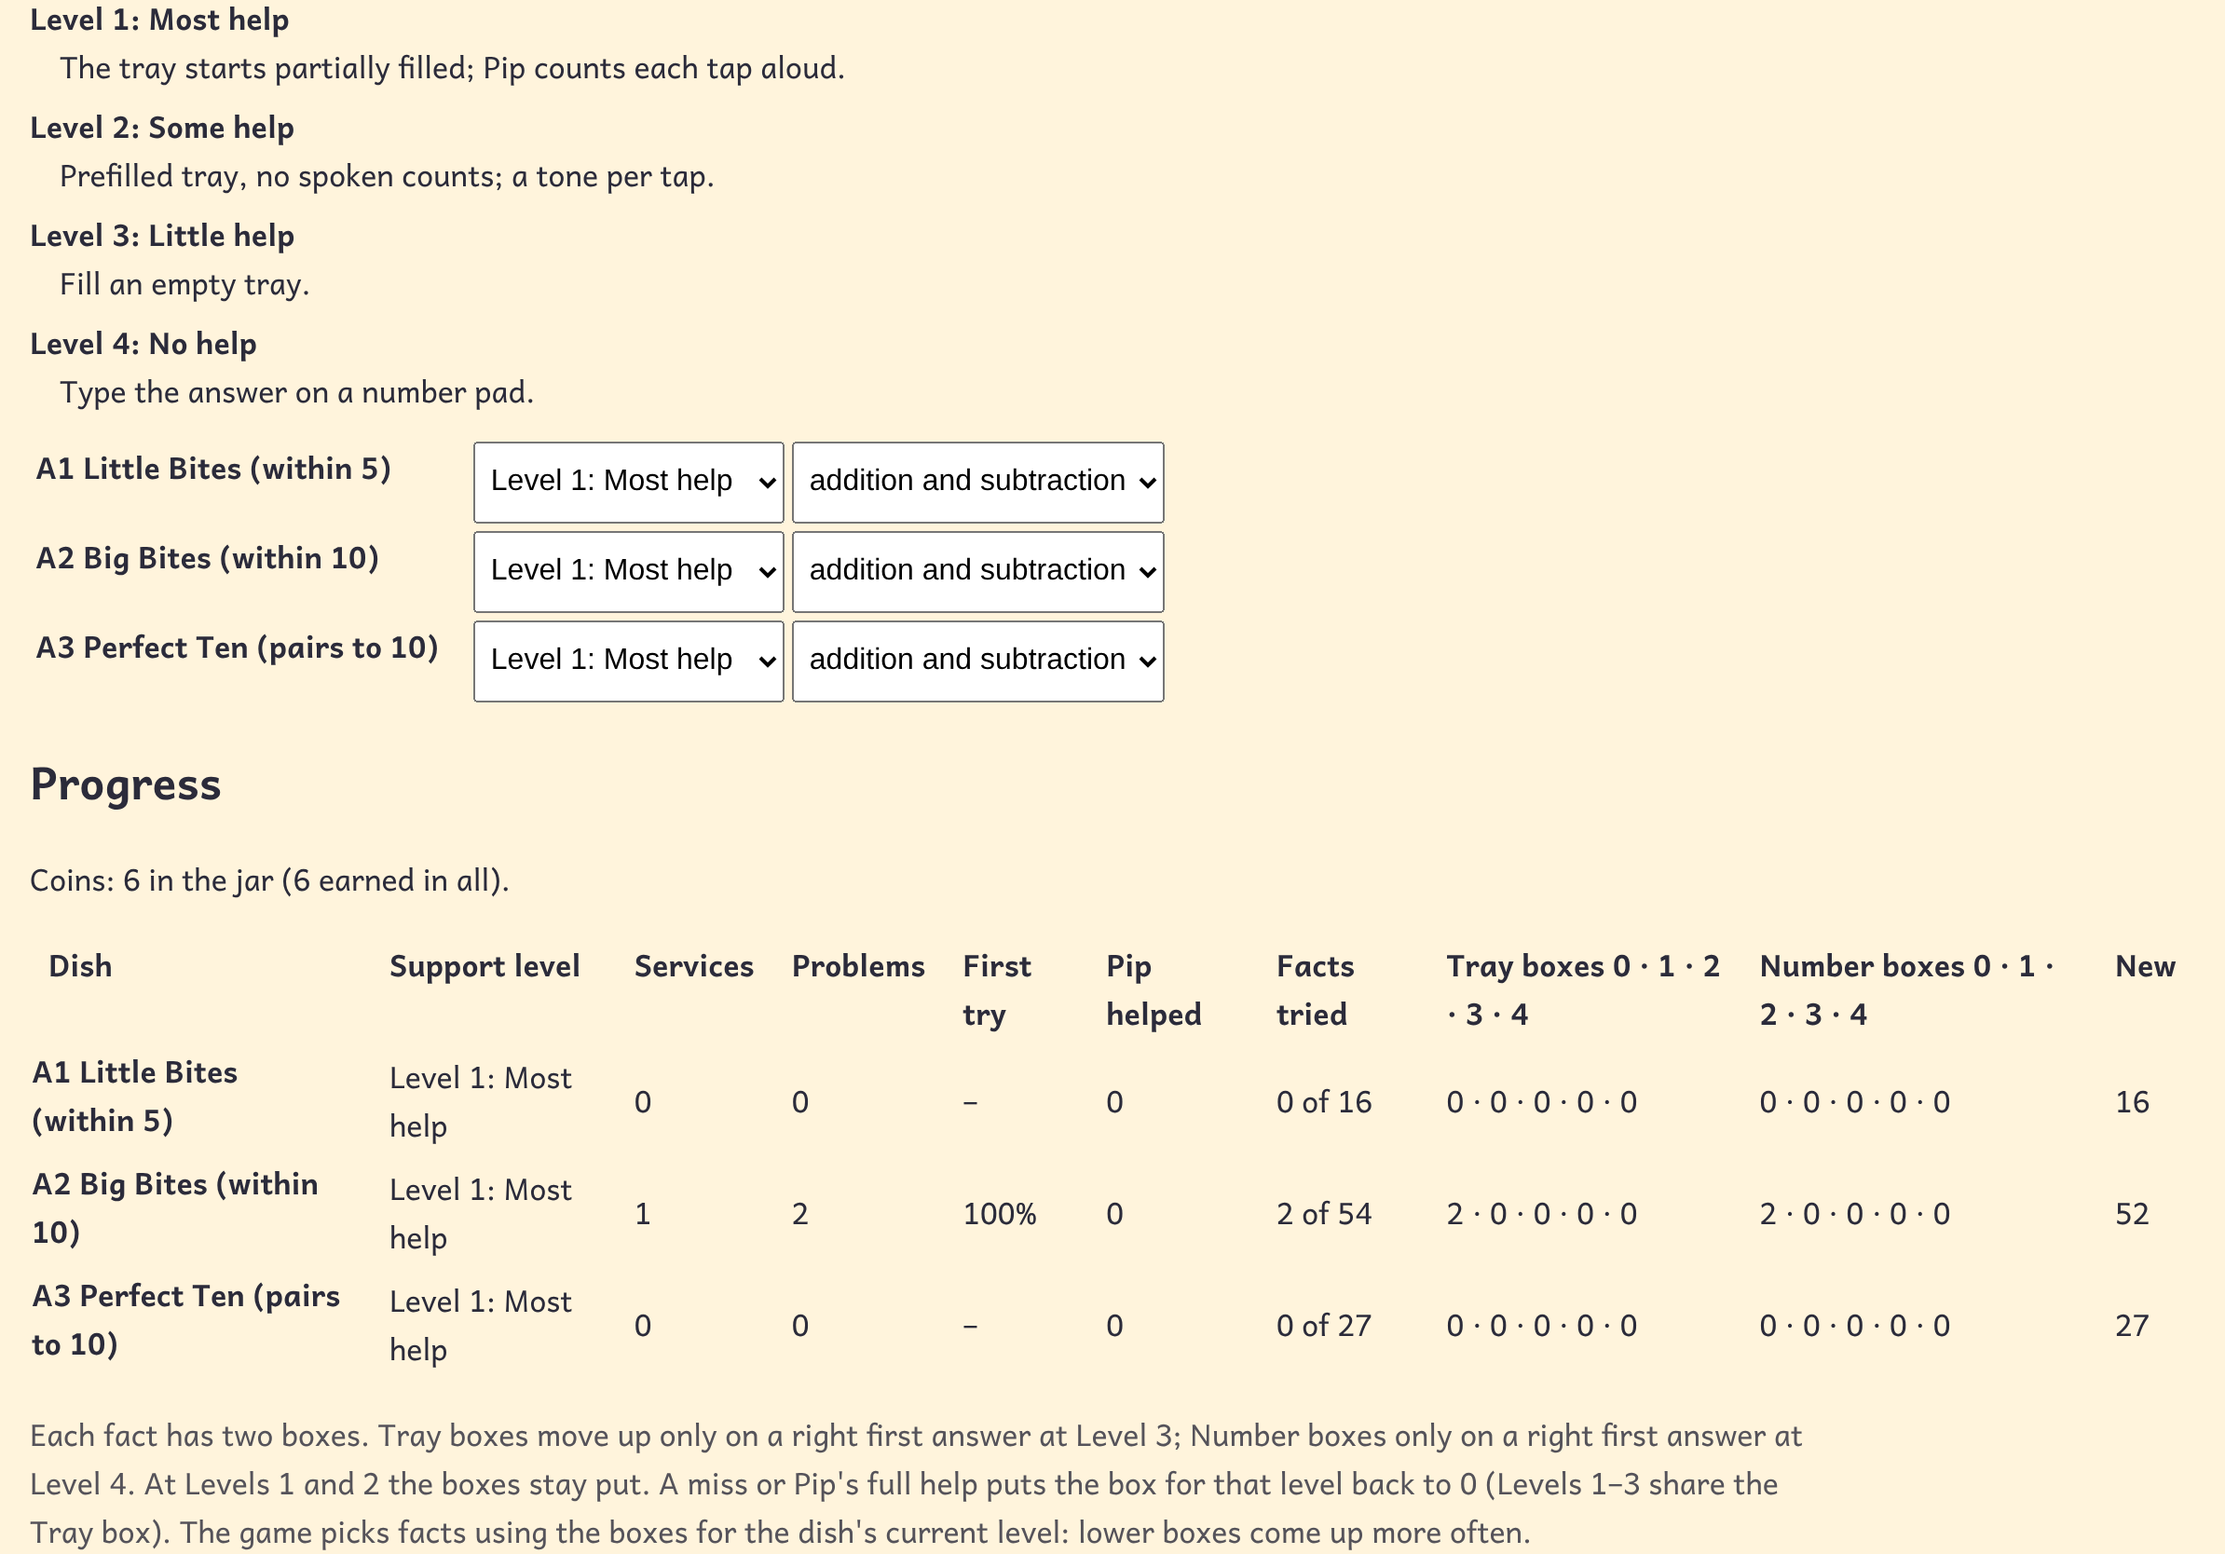
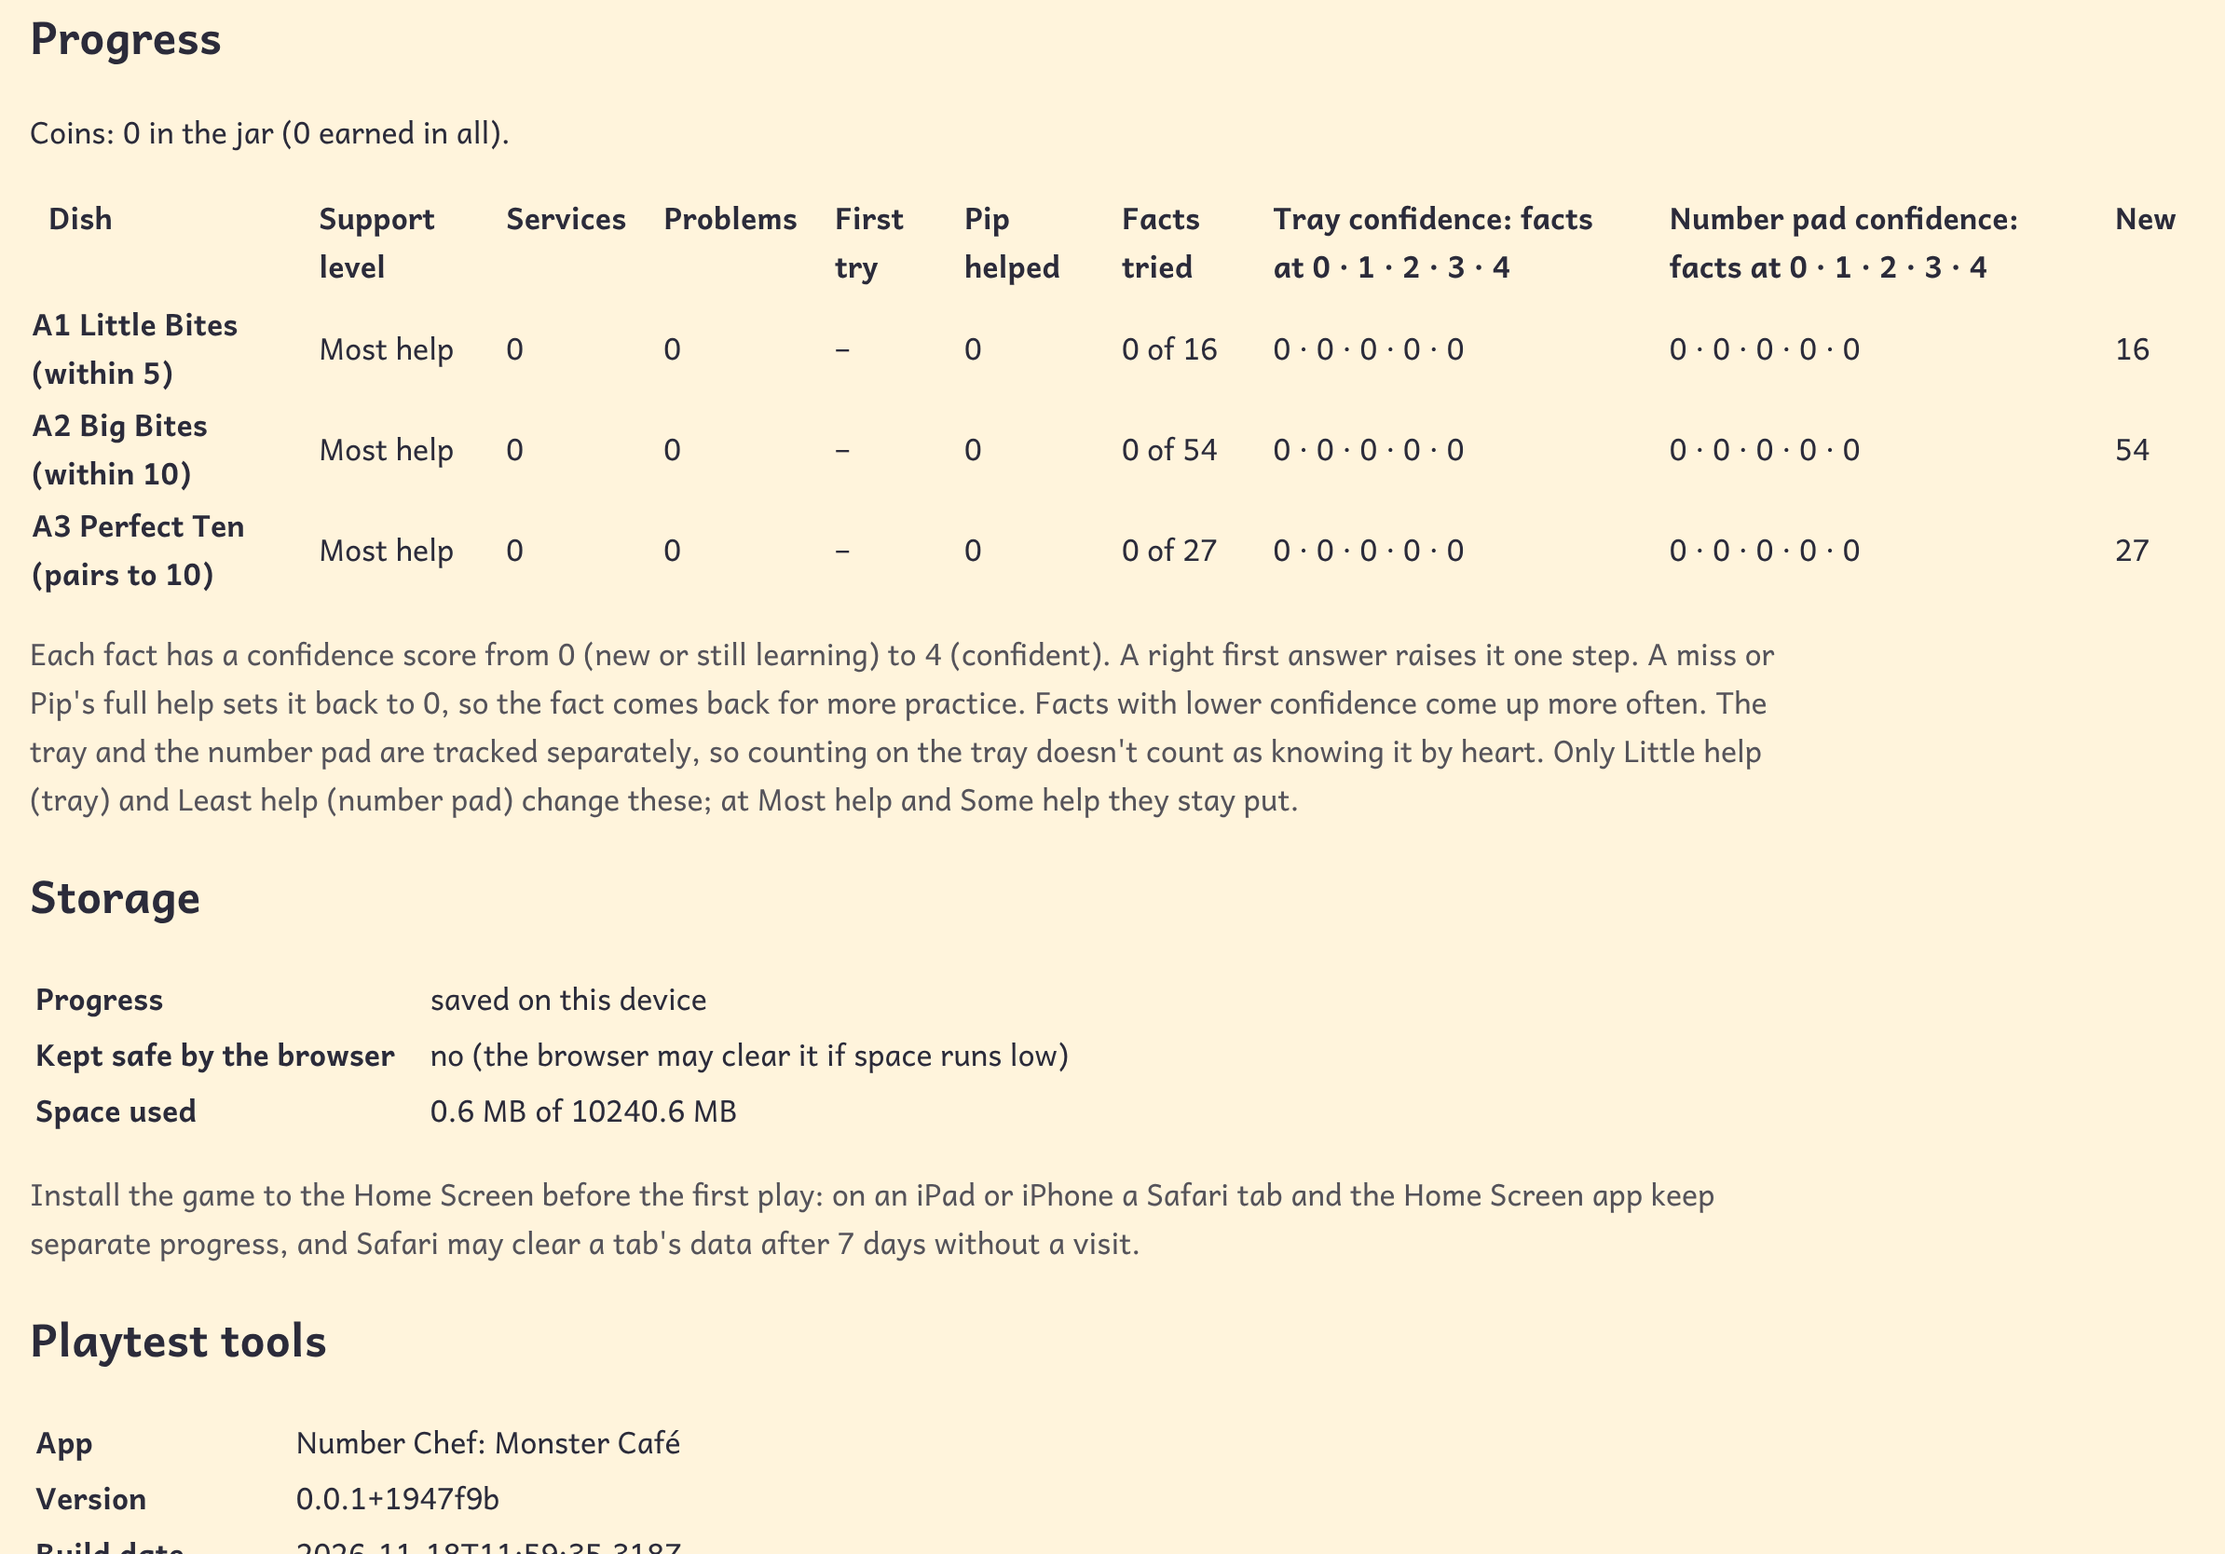
Parents see fact boxes as confidence 0–4, explained under the Progress table (D130)
Claude-Session: https://claude.ai/code/session_01CjmpHupJHELyCNEEcjGXLb

diff --git a/src/app/ProgressList.tsx b/src/app/ProgressList.tsx
@@ -52,7 +52,8 @@ export function progressRows(d: Derived): SkillRow[] {
 
 /**
  * The simple progress list (SPEC §12, M3a): per skill, services played, problems, first-try share,
- * Pip's full help, and how the facts sit in boxes. Never shown to the child (SPEC §4.2).
+ * Pip's full help, and how the facts sit in boxes, shown to parents as confidence 0–4 (D130).
+ * Never shown to the child (SPEC §4.2).
  */
 export function ProgressList() {
   const d = useDerived();
@@ -73,8 +74,8 @@ export function ProgressList() {
             <th>First try</th>
             <th>Pip helped</th>
             <th>Facts tried</th>
-            <th>Tray boxes 0 · 1 · 2 · 3 · 4</th>
-            <th>Number boxes 0 · 1 · 2 · 3 · 4</th>
+            <th>Tray confidence: facts at 0 · 1 · 2 · 3 · 4</th>
+            <th>Number pad confidence: facts at 0 · 1 · 2 · 3 · 4</th>
             <th>New</th>
           </tr>
         </thead>
@@ -90,18 +91,19 @@ export function ProgressList() {
               <td>
                 {r.seen} of {r.facts}
               </td>
-              <td data-testid={`progress-${r.skill}-tray`}>{r.tray.join(' · ')}</td>
-              <td data-testid={`progress-${r.skill}-num`}>{r.num.join(' · ')}</td>
+              <td className="nowrap" data-testid={`progress-${r.skill}-tray`}>{r.tray.join(' · ')}</td>
+              <td className="nowrap" data-testid={`progress-${r.skill}-num`}>{r.num.join(' · ')}</td>
               <td>{r.fresh}</td>
             </tr>
           ))}
         </tbody>
       </table>
-      <p className="parent-note">
-        Each fact has two boxes. Tray boxes move up only on a right first answer at Little help; Number boxes
-        only on a right first answer at Least help. At Most help and Some help the boxes stay put. A miss or
-        Pip&apos;s full help puts the box for that level back to 0 (the three tray levels share the Tray box). The
-        game picks facts using the boxes for the dish&apos;s current level: lower boxes come up more often.
+      <p className="parent-note" data-testid="confidence-note">
+        Each fact has a confidence score from 0 (new or still learning) to 4 (confident). A right first answer
+        raises it one step. A miss or Pip&apos;s full help sets it back to 0, so the fact comes back for more
+        practice. Facts with lower confidence come up more often. The tray and the number pad are tracked
+        separately, so counting on the tray doesn&apos;t count as knowing it by heart. Only Little help (tray)
+        and Least help (number pad) change these; at Most help and Some help they stay put.
       </p>
     </section>
   );

diff --git a/tests/e2e/m3a.spec.ts b/tests/e2e/m3a.spec.ts
@@ -168,12 +168,16 @@ test('the Skills list behind the gear changes the next service; progress and sto
   await tap(page, page.getByTestId('splash'));
   await openGrownUps(page);
   await expect(page.getByTestId('stage-A2')).toHaveValue('3');
-  // Owner wording (D126): levels by name with a description; ops spelled out; basket side after Progress.
+  // Owner wording (D126, D129, D130): levels by name with a description; ops spelled out; basket side
+  // before Progress; parents read "confidence", never "box".
   await expect(page.getByTestId('stage-A2').locator('option:checked')).toHaveText('Most help');
   await expect(page.getByTestId('stage-help')).toContainText('Least help');
   await expect(page.getByTestId('ops-A2').locator('option:checked')).toHaveText('addition and subtraction');
   await expect(page.getByTestId('basket-side-picker').locator('h2')).toHaveText('Basket side');
   await expect(page.locator('[data-testid=basket-side-picker] ~ [data-testid=progress-list]')).toHaveCount(1);
+  await expect(page.getByTestId('progress-list').locator('th').filter({ hasText: 'Number pad confidence' })).toHaveCount(1);
+  await expect(page.getByTestId('confidence-note')).toContainText('confidence score from 0');
+  await expect(page.getByTestId('progress-list')).not.toContainText(/box/i);
   await expect(page.getByTestId('basket-side-picker')).toHaveCount(1);
   await page.getByTestId('stage-A2').selectOption('0');
   await page.getByTestId('ops-A2').selectOption('sub');

diff --git a/src/app/global.css b/src/app/global.css
@@ -410,6 +410,10 @@ html.debug-mode #root {
   word-break: normal;
   text-align: left;
 }
+/* Five counts read as one row of numbers; wrapped, the last count looks like a separate value. */
+.parent-progress td.nowrap {
+  white-space: nowrap;
+}
 .parent-note {
   max-width: 60em;
   opacity: 0.8;

diff --git a/docs/SPEC.md b/docs/SPEC.md
@@ -304,6 +304,7 @@ The first-ever service on a device begins with the warm-up order (§5.4, D26).
   - At the default S3 boxes therefore do not rise until a parent moves a skill to S1/S0, so sampling stays even.
   - Time cutoffs (the allowance, the 90 s grace cap) write no `attempt` and change no box (§6.2).
 - **Stage per skill** is a stored parent setting (`skillConfig`, default S3, D23), applied from the next service. The stage uses the *same fact pool*; only the representation fades.
+- **Parent wording (D130):** parents never see the word *box*; the box number is shown as a *confidence* score 0–4 (0 new or still learning, 4 confident), per set as *Tray confidence* and *Number pad confidence*.
 - **Starting state (D16, D127):** every fact starts new, in box 0 of both sets. There is no default preset: the owner wants the boxes to show what the child really knows, and other children will play. Every skill starts at S3. Editable in Parent → Skills (M3a: stage and operations; M7: optional starting-point toggles, stored as a `known` event, empty by default).
 - Never shown to the child: percentages, wrong counts, streaks, response times.
 
@@ -573,7 +574,7 @@ Safari tabs can have script-writable storage evicted after 7 days of non-use; **
 ## 12. Parent area
 **Gate:** tap the Home gear, hold the popup's circle 2 s (D95), then a multiplication question with factors 6–9 × 7–9 (answer by number pad, never spoken). 3 wrong → 30 s lockout. Auto-locks after 5 minutes idle or on leaving. Not reachable during a service.
 
-Tier 1 builds it in steps (D36, D44): before M3a the gear (tap, then a 2 s hold on the popup's circle, no gate) and `?debug` both open the playtest tools with the stage/operations picker, sound test and, from the counter-layout build, the basket side (D94, D95, D115); **M3a** adds a minimal Skills list (support level, named and described as in §3.2, and operations — *addition and subtraction* / *addition only* / *subtraction only* — per skill, opened by the gear without a gate), a simple progress list (per dish: support level, services, problems, first-try share, Pip's full help, facts tried, facts per box in the tray set and the number set, never-seen facts; the coin balance), the **basket side** after Skills and before Progress (headed "Basket side" with a short description of what it does) and the storage status (D125, D126, D127, D129); **M3b** adds the gate and the rest of the minimal area: orders per service, voice/speed/volume, reduced motion, Export, Replace-only import, Reset. The play-time limit with Start new session / Add time arrives with M12 (D124). The full tab set lands in M7.
+Tier 1 builds it in steps (D36, D44): before M3a the gear (tap, then a 2 s hold on the popup's circle, no gate) and `?debug` both open the playtest tools with the stage/operations picker, sound test and, from the counter-layout build, the basket side (D94, D95, D115); **M3a** adds a minimal Skills list (support level, named and described as in §3.2, and operations — *addition and subtraction* / *addition only* / *subtraction only* — per skill, opened by the gear without a gate), a simple progress list (per dish: support level, services, problems, first-try share, Pip's full help, facts tried, facts per box in the tray set and the number set, shown to parents as *Tray confidence* and *Number pad confidence* 0–4 with a short note on how the score moves and why lower scores come up more often (D130), never-seen facts; the coin balance), the **basket side** after Skills and before Progress (headed "Basket side" with a short description of what it does) and the storage status (D125, D126, D127, D129); **M3b** adds the gate and the rest of the minimal area: orders per service, voice/speed/volume, reduced motion, Export, Replace-only import, Reset. The play-time limit with Start new session / Add time arrives with M12 (D124). The full tab set lands in M7.
 
 Tabs (normal scrolling layout; works in portrait):
 1. **Progress** — per-skill stage and services played; fact heatmap (addition/subtraction grids 0–10 colored by box for A1–A4; A5 and up show a per-skill fact list colored by box, D47); "trouble spots" (box 0 after ≥ 3 sightings); **median S0 response time per skill** (from `attempt.ms`; the best sign that a fact moved from counting to recall); last 20 services (date, skill, first-try %, assisted count, minutes); active minutes per day (last 14).

diff --git a/docs/archive/DECISIONS_LOG.md b/docs/archive/DECISIONS_LOG.md
@@ -715,3 +715,8 @@ How to revisit: if the repeating ghost is distracting, show each hint once; `war
 **What:** Parent-facing level names drop the "Level n:" prefix and S0 becomes *Least help*: S3 *Most help* — the tray starts partially filled; Pip counts each tap aloud. S2 *Some help* — the tray starts partially filled; no spoken counts, a tone per tap. S1 *Little help* — the tray begins empty. S0 *Least help* — the player types the answer on a number pad; the tray appears only when the player asks for a hint or enters a wrong answer twice for the same order. The progress note names levels instead of numbering them. The Basket side section moves above Progress (after Skills). Amends D128 and D126 (basket side placement).
 **Why:** Owner's playtest feedback on round 1 of M3a.
 **How to revisit:** `STAGE_NAMES` / `STAGE_HELP` in `src/app/SkillPicker.tsx`; section order in `src/app/ParentScreen.tsx`.
+
+## D130 — Parents see fact boxes as "confidence" 0–4 (2026-11-18)
+**What:** Parent-facing text never says "box". The Progress columns read *Tray confidence: facts at 0 · 1 · 2 · 3 · 4* and *Number pad confidence: facts at 0 · 1 · 2 · 3 · 4*, and the note under the table explains the score: 0 (new or still learning) to 4 (confident); a right first answer raises it one step; a miss or Pip's full help sets it back to 0 so the fact returns for practice; lower scores come up more often; tray and number pad are tracked separately; only Little help and Least help change it. Engine and docs keep "box" internally. "Level" is avoided so it never clashes with *Support level*.
+**Why:** A parent who doesn't know the Leitner method can't read "boxes". Owner chose "confidence" over "mastery" because a drop from 4 to 0 reads naturally for confidence but sounds like a loss for mastery.
+**How to revisit:** Wording lives in `src/app/ProgressList.tsx`; M7's heatmap (SPEC §12) should use the same word.

diff --git a/docs/PLAYTEST.md b/docs/PLAYTEST.md
@@ -246,8 +246,9 @@ Progress from earlier builds keeps its events; the boxes are recomputed from the
 - [x] **Two box sets.** Progress shows *Tray boxes* and *Number boxes*. A few services at *Level 3* move only the Tray boxes; a few at *Level 4* move only the Number boxes. +1 and doubles now start as new facts like any other (expect them to come up more often at first). Notes:
 - [x] **Chompers' teeth** stay attached to the top lip when he grins after eating (and Gruffles' fangs). Notes:
 
-Owner notes (2026-11-18): Close the café and the teeth work; drop "Level n:" from the names, reword Some/Little help, rename No help to Least help; basket side above Progress; "boxes" means nothing to a parent who doesn't know Leitner, so rename and explain it (pending the owner's choice).
+Owner notes (2026-11-18): Close the café and the teeth work; drop "Level n:" from the names, reword Some/Little help, rename No help to Least help; basket side above Progress; "boxes" means nothing to a parent who doesn't know Leitner, so rename and explain it (owner chose *confidence*, D130).
 
-### M3a feedback round 2 (D129)
+### M3a feedback round 2 (D129, D130)
 - [ ] **Support level names.** Gear → hold → *Skills*: *Most help · Some help · Little help · Least help*, with the new descriptions above the list. Notes:
 - [ ] **Basket side** now sits between Skills and Progress. Notes:
+- [ ] **Confidence.** Progress shows *Tray confidence* and *Number pad confidence* (facts at 0–4) with a note under the table. Would a parent who has never heard of flash-card boxes understand it? Notes:

diff --git a/docs/DECISIONS.md b/docs/DECISIONS.md
@@ -137,3 +137,4 @@
 | D127 | No starting preset; separate tray (S3–S1) and number-pad (S0) fact boxes | SPEC §4.1, §4.2, §11.2, §12; amends D16, D97 | Counting out at S1 says little about recall at S0; owner wants unbiased boxes |
 | D128 | Support levels renamed Level 1–4: Most help · Some help · Little help · No help | SPEC §3.2; amends D126 (b); names superseded by D129 | Owner's second naming pass |
 | D129 | Level names lose their numbers (Most · Some · Little · Least help) with new descriptions; basket side above Progress | SPEC §3.2, §12; amends D128, D126 | Owner's playtest feedback, M3a round 1 |
+| D130 | Parents see fact boxes as *confidence* 0–4 (Tray / Number pad confidence), explained under the Progress table | SPEC §4.2, §12 | Parents don't know Leitner boxes; owner chose "confidence" |
